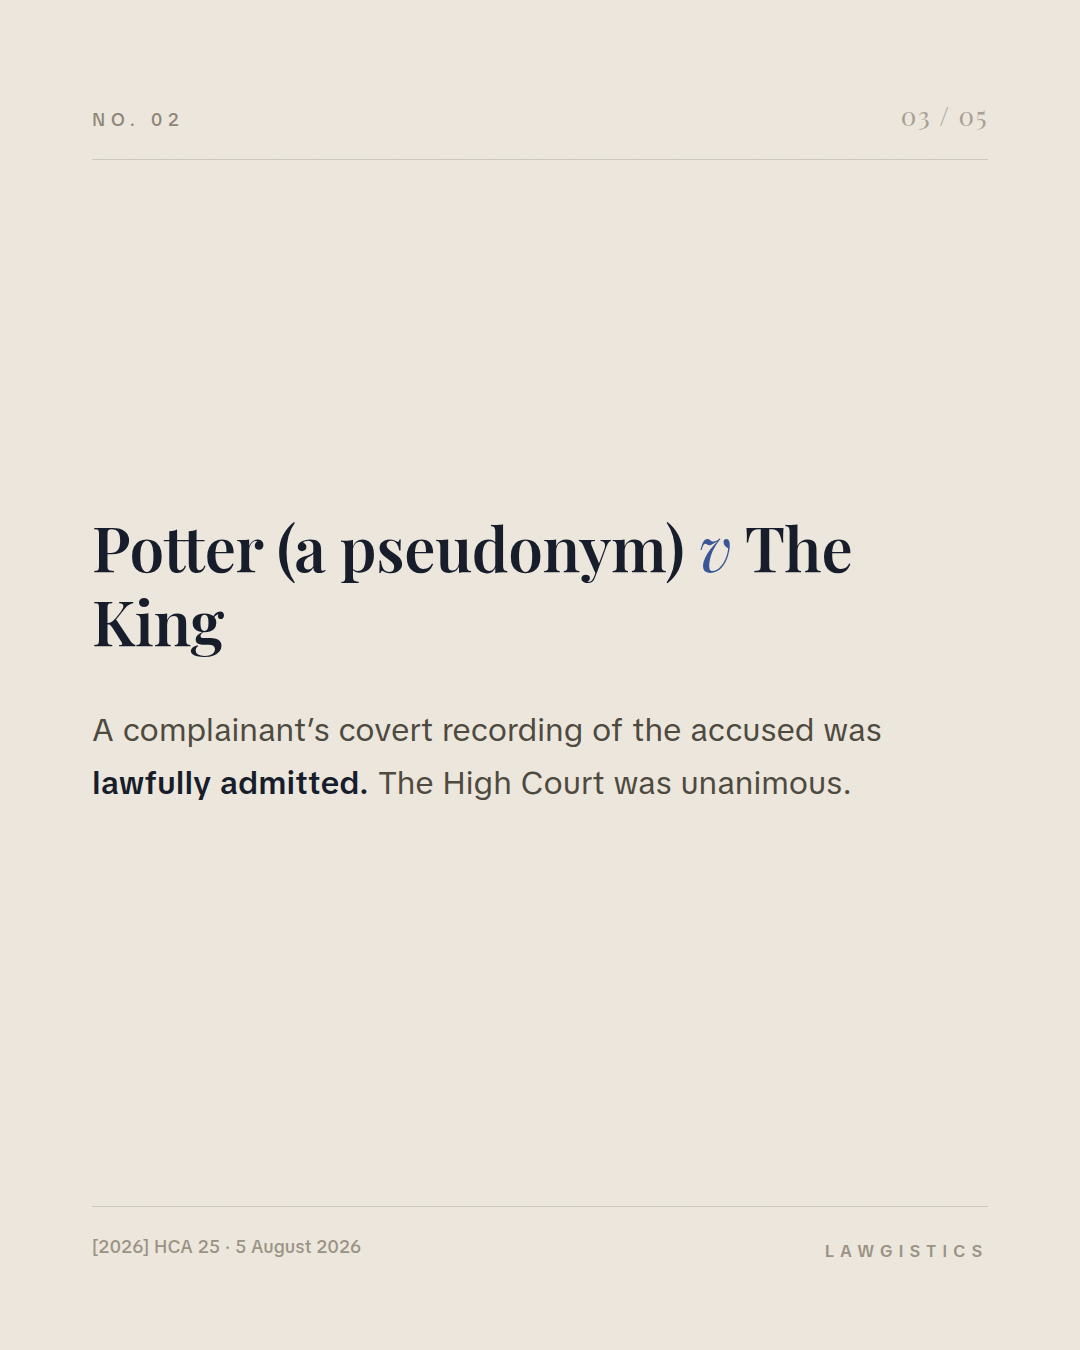
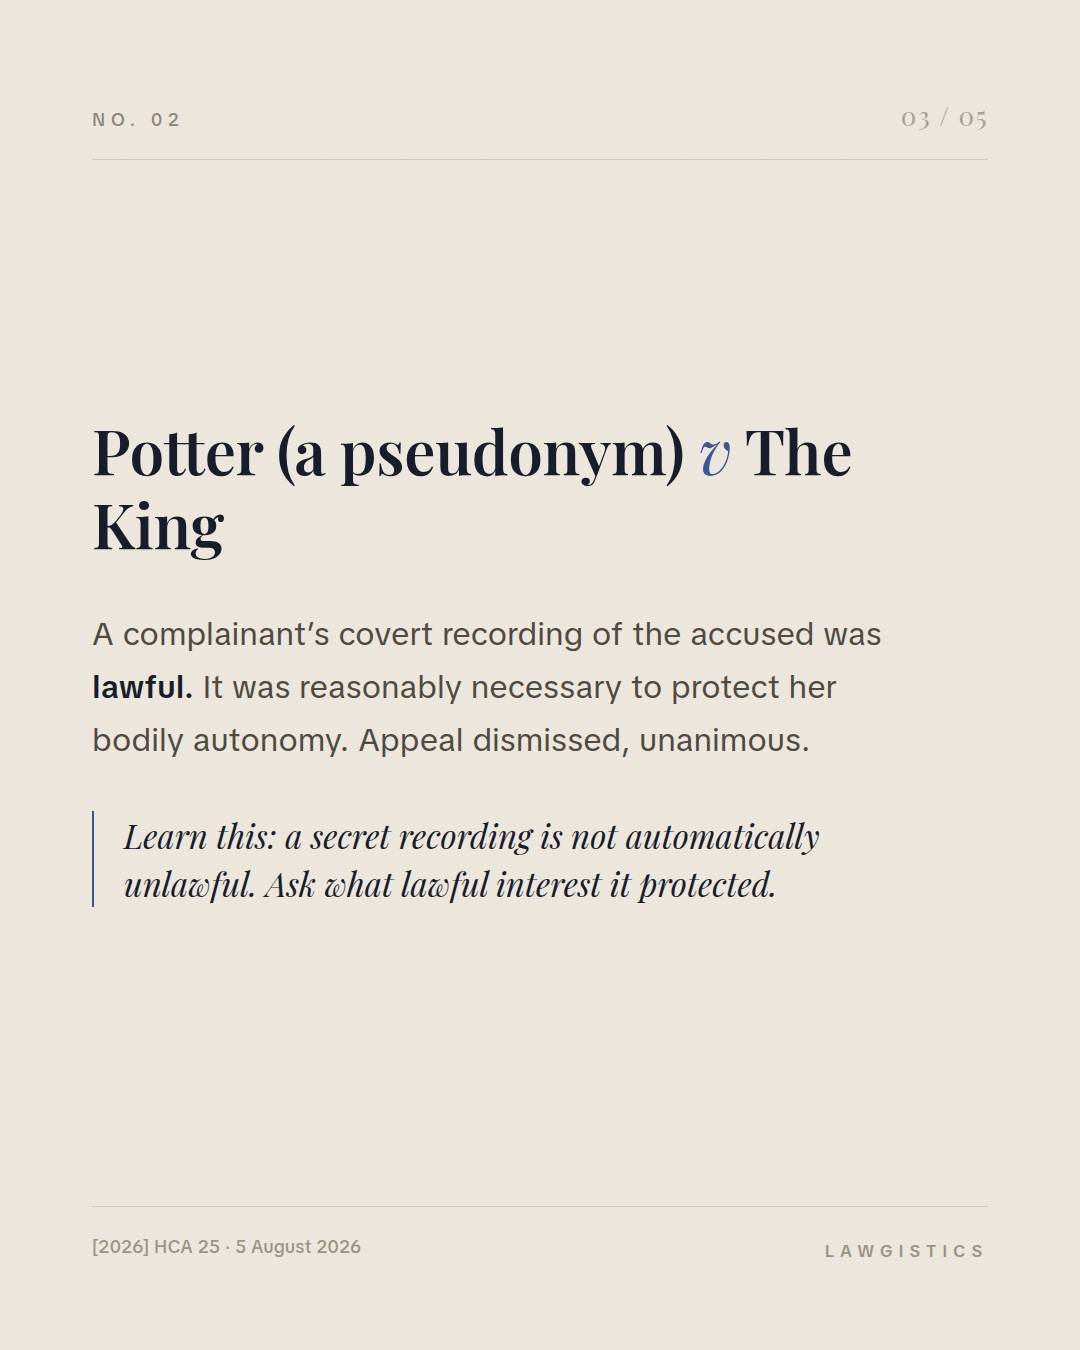
Add learning lines to case slides, third verification pass
Each case slide now carries a 'Learn this:' pull-out stating the principle
rather than repeating the outcome, set in serif italic against an accent rule.
Rule recorded in CLAUDE.md for all future case slides.

Third pass on the sources upgraded the Potter slide to reflect the actual
reasoning (recording reasonably necessary to protect bodily autonomy, appeal
dismissed, convictions stood) and found a third source describing HCA 23 as
unanimous. Unanimity recorded in the brief but deliberately not put on a slide.

Claude-Session: https://claude.ai/code/session_01JRjeUUcoRT5GxuTf3inkfN

Changed region(s): [[0.0917, 0.3111, 0.825, 0.6844]]

diff --git a/tools/carousel/recentlyincourt.py b/tools/carousel/recentlyincourt.py
@@ -70,6 +70,12 @@ body.dark{background:#141A28;color:#EDE7DC;}
 .holding b{font-weight:600;color:#171D2B;}
 .dark .holding b{color:#EDE7DC;}
 
+/* the learning line: what you actually take from the case */
+.learn{margin-top:44px;padding-left:30px;border-left:2px solid #3A5697;
+  font-family:'Playfair',serif;font-style:italic;font-weight:400;
+  font-size:33px;line-height:1.46;color:#171D2B;max-width:800px;}
+.dark .learn{border-left-color:#6E86C9;color:#EDE7DC;}
+
 /* list slide */
 .also{margin-top:8px;font-family:'TikTok Sans',sans-serif;font-size:29px;
   line-height:1.5;color:#4E4A3F;max-width:850px;}
@@ -112,12 +118,14 @@ slide(1, "Roundup",
 
 slide(2, "No. 01",
   '<div class="case">Mpwerempwer Aboriginal Corporation <i>v</i> Minister</div>'
-  '<div class="holding">A thirty year licence to take up to 40 gigalitres of groundwater a year was <b>set aside.</b> The native title holders were not heard before it issued.</div>',
+  '<div class="holding">A thirty year licence to take up to 40 gigalitres of groundwater a year was <b>set aside.</b> The native title holders were not given notice of the proposed conditions, or a chance to answer them.</div>'
+  '<div class="learn">Learn this: procedural fairness is a condition of the power, not a courtesy added at the end.</div>',
   cite="[2026] HCA 23 &middot; 5 August 2026")
 
 slide(3, "No. 02",
   '<div class="case">Potter (a pseudonym) <i>v</i> The King</div>'
-  '<div class="holding">A complainant&rsquo;s covert recording of the accused was <b>lawfully admitted.</b> The High Court was unanimous.</div>',
+  '<div class="holding">A complainant&rsquo;s covert recording of the accused was <b>lawful.</b> It was reasonably necessary to protect her bodily autonomy. Appeal dismissed, unanimous.</div>'
+  '<div class="learn">Learn this: a secret recording is not automatically unlawful. Ask what lawful interest it protected.</div>',
   cite="[2026] HCA 25 &middot; 5 August 2026")
 
 slide(4, "Also That Day",

diff --git a/reports/assets/2026-08-10/RECENTLY-IN-COURT-KIT.md b/reports/assets/2026-08-10/RECENTLY-IN-COURT-KIT.md
@@ -32,7 +32,9 @@ Five judgments in one sitting day. Here is what came out of the High Court on We
 
 **Mpwerempwer Aboriginal Corporation v Minister** [2026] HCA 23. A licence to take up to 40 gigalitres of groundwater a year for thirty years in the Northern Territory has been set aside. A new condition was imposed requiring an assessment of the impact on Aboriginal cultural values. The company was told and given two days to respond. The native title holders were not told until after the licence had issued. The Court held they should have been heard first.
 
-**Potter (a pseudonym) v The King** [2026] HCA 25. A complainant's covert recording of the accused was lawfully admitted. The Court was unanimous.
+**Potter (a pseudonym) v The King** [2026] HCA 25. A complainant's covert recording of the accused was lawful. It was reasonably necessary to protect her bodily autonomy and integrity, which the Court treated as a lawful interest deserving the very strongest protection. The appeal was dismissed and the convictions stood. The Court was unanimous.
+
+The lesson in that one is worth holding onto. A recording made without consent is not automatically unlawful. The question is what lawful interest it was protecting.
 
 Also handed down that day, and worth a look if they touch your subjects:
 
@@ -55,6 +57,29 @@ Summaries only. Check the judgments before relying on them. General information 
 #auslaw #lawstudent #lawschool #highcourt #adminlaw #proceduralfairness #migrationlaw #youthjustice #lawyersofinstagram #lawgistics
 
 **Alt text:** Cream and navy carousel summarising the five High Court of Australia judgments delivered on 5 August 2026.
+
+---
+
+## The learning line
+
+Each case slide carries a pull-out line in serif italic against an accent rule, opening "Learn this:". It states the principle rather than repeating the outcome, so the slide is useful in an exam and not just informative.
+
+| Slide | Learning line | Basis |
+|---|---|---|
+| 02 | Procedural fairness is a condition of the power, not a courtesy added at the end. | General principle, supported by the outcome in HCA 23 |
+| 03 | A secret recording is not automatically unlawful. Ask what lawful interest it protected. | Directly reflects the reasoning: the recording was reasonably necessary to protect a lawful interest |
+
+Both are statements of principle, not paraphrases of orders, so they are safe. Keep them short. One sentence, no sub-clauses, no hedging.
+
+---
+
+## Verification, third pass
+
+This kit has been checked three times. The third pass changed two things.
+
+**Potter, upgraded.** The holding now reflects the actual reasoning rather than just the result. The recording was lawful because it was reasonably necessary to protect the complainant's bodily autonomy and integrity, which the Court described as a lawful interest deserving the very strongest protection. Also now confirmed: the appeal was dismissed and the convictions stood, the Court was unanimous, and the matter came from South Australia where the accused was convicted on two counts of raping his sleeping wife with the jury unable to reach a verdict on two further counts. The slide states only the parts that fit.
+
+**Mpwerempwer, unanimity found but not used.** A third source describes the Court as ruling unanimously that the licence was unlawfully granted. That closes the item flagged as open in the 10 August brief. It is recorded here, but it is **not stated on any slide**, because nothing in the post depends on it and one line of news reporting is a thinner basis than the rest of the material. If you can confirm it from the judgment, tell me and I will add it.
 
 ---
 

diff --git a/reports/2026-08-10-daily-court-intelligence.md b/reports/2026-08-10-daily-court-intelligence.md
@@ -57,7 +57,7 @@ The High Court delivered five judgments that day:
 | Granted under s 60 *Water Act 1992* (NT); term beyond ten years required the Minister to be satisfied of special circumstances; protection of Aboriginal cultural values a required consideration | Confirmed via legal trade reporting (Australasian Lawyer) |
 | New condition requiring an Aboriginal cultural values impact assessment; Fortune notified and given **two days** to respond; the Corporation not notified until after the licence issued; Court held it should have been heard first | Confirmed via legal trade reporting, corroborated on a second independently worded search |
 | Bench: Gageler CJ, Gordon, Edelman, Steward, Gleeson, Jagot and Beech-Jones JJ | Confirmed |
-| Whether the decision was **unanimous** | **Still not verified.** Nothing on the slides or in the caption asserts it. |
+| Whether the decision was **unanimous** | Third pass, 10 Aug: one source describes the Court as ruling unanimously that the licence was unlawfully granted. Recorded, but **still not stated on any slide or in any caption**, since nothing depends on it and a single line of news reporting is thinner than the rest of the material here. |
 | "Largest groundwater licence ever granted in the NT" | Attributed to the Central Land Council, not to the Court. Keep the attribution if you use it. |
 
 **Upgrade note, second verification pass.** The first pass relied on general news wire copy and could only say that procedural fairness was "the reported outcome". A second pass found legal trade reporting with the specific finding: the two day window given to Fortune, and the Corporation being told only after the licence issued. Slides 2, 3 and 4 were rewritten on that basis and the hedge was removed, because the fact is now sourced rather than inferred.

diff --git a/CLAUDE.md b/CLAUDE.md
@@ -9,6 +9,7 @@ This repo powers the **Lawgistics Daily Court Intelligence** workflow. Any sessi
 - Post queue lives at `reports/POST-QUEUE.md` — check it each run; add banked carousels, mark posted ones.
 - **"Recently in Court." (roundup post, renamed from "The Day in Court." on 10 Aug 2026 because the window covered is usually several days back and the old name overstated currency; the earlier name "The Docket" stays retired, don't reuse either):** a carousel covering the significant decisions from the latest verified window: cover slide ("Recently in Court." on two lines + hairline + honest subline naming the court, the number of judgments and the date) then ONE SLIDE PER CASE (case name with v in accent blue, one-line holding, citation bottom-left). Final slide inverts to navy and carries the closing line + disclaimer. Template: `tools/carousel/recentlyincourt.py` (older `dayincourt.py` superseded).
 - **Confirmed only applies to roundups too.** Only give a case its own slide and a stated holding if the outcome is confirmed. Cases whose outcomes cannot be verified go on a single "Three more, in brief" slide with name, citation and subject matter only, never an outcome.
+- **Every case slide carries a learning line.** A pull-out in serif italic against an accent rule, opening "Learn this:", stating the *principle* rather than repeating the outcome. One sentence, no sub-clauses, no hedging. The point is that the slide is useful in an exam, not just informative. Applies to case slides on roundups and on single-case carousels.
 
 ## Output locations
 
